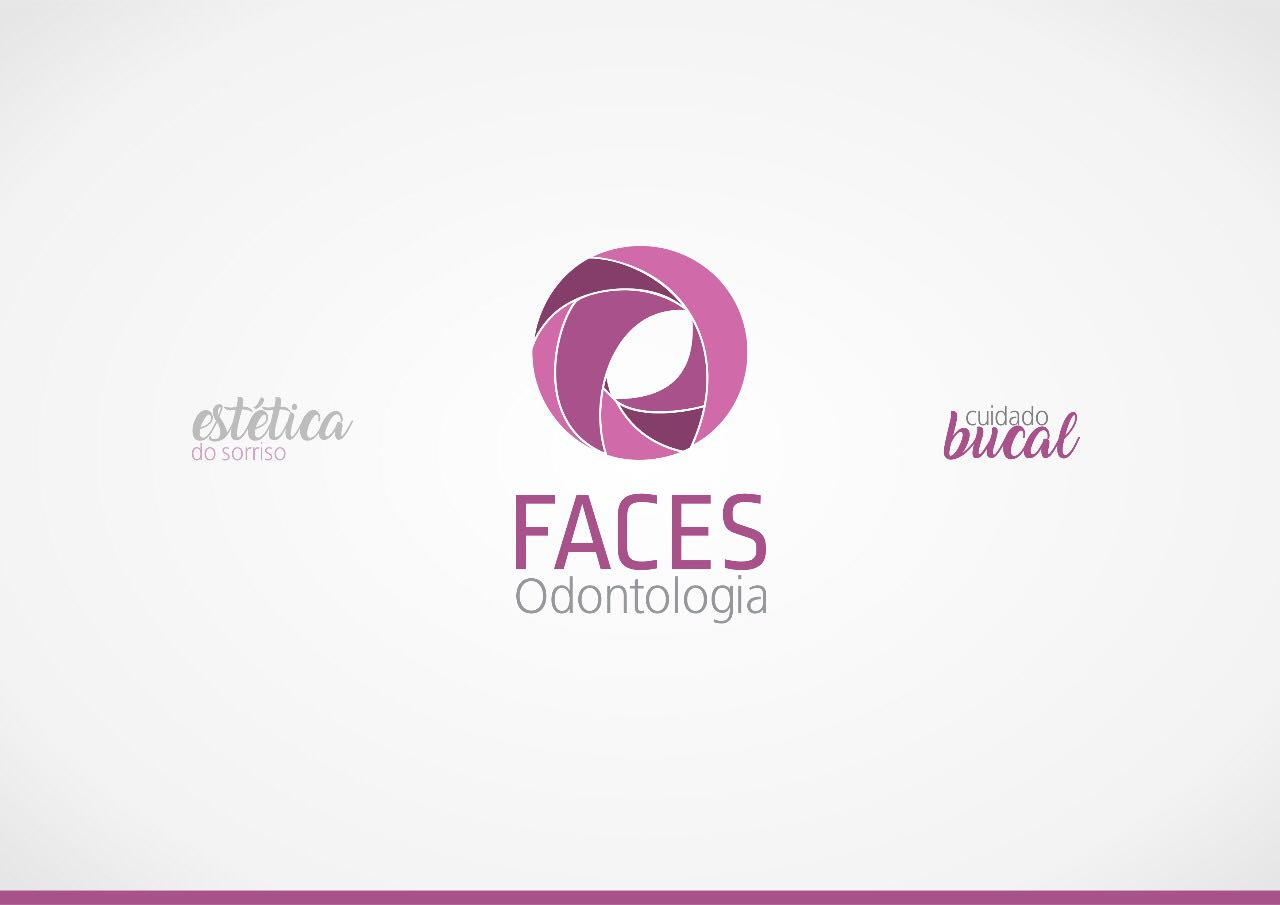
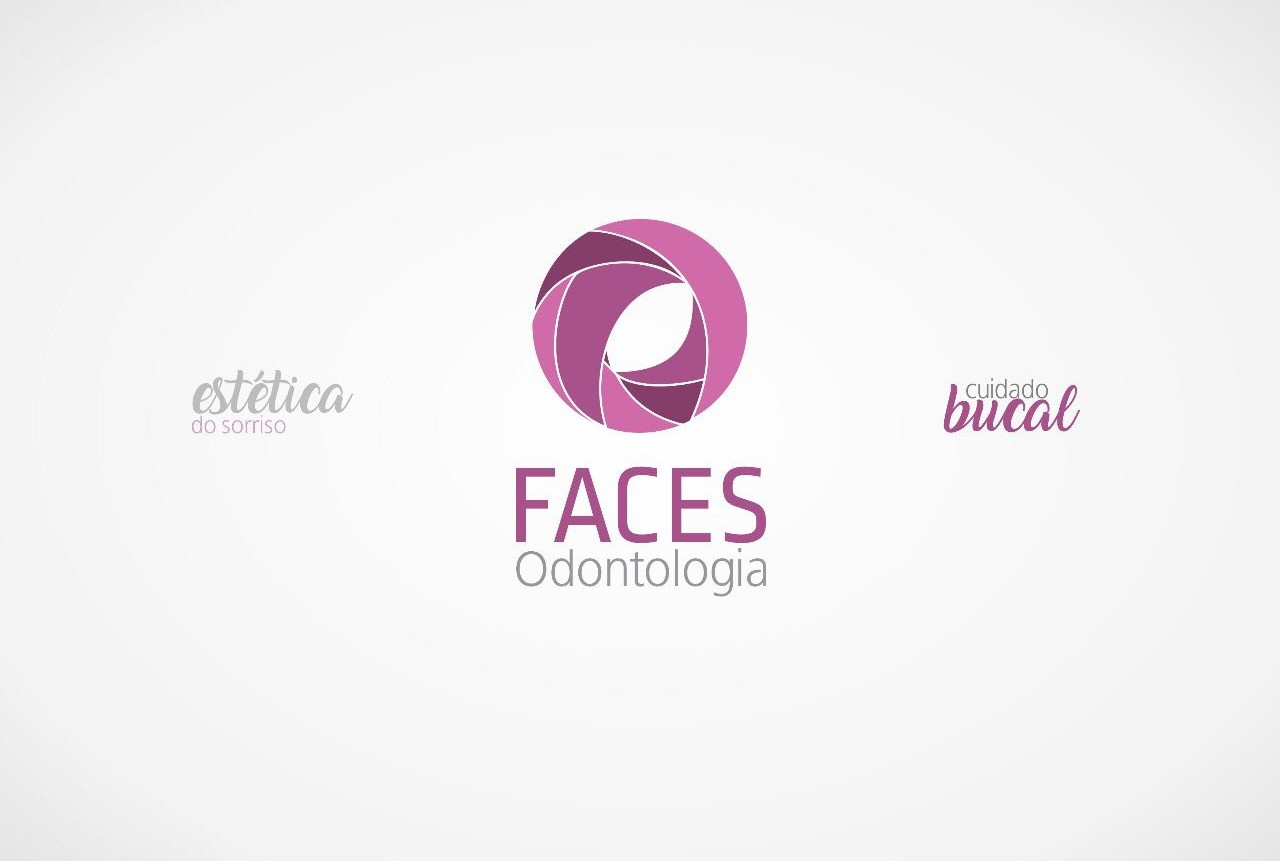
fixing width size for mobile

diff --git a/css/creative.min.css b/css/creative.min.css
@@ -1,1 +1,1 @@
-body,html{width:100%;height:100%}body{font-family:Merriweather,'Helvetica Neue',Arial,sans-serif}hr{max-width:50px;border-width:3px;border-color:#b24a59}hr.light{border-color:#fff}a{color:#b24a59;-webkit-transition:all .2s;-moz-transition:all .2s;transition:all .2s}a:hover{color:#b24a59}h1,h2,h3,h4,h5,h6{font-family:'Open Sans','Helvetica Neue',Arial,sans-serif}.bg-primary{background-color:#b24a59!important}.bg-dark{background-color:#212529!important}.text-faded{color:rgba(0,0,0,.7)}section{padding:8rem 0}.section-heading{margin-top:0}::-moz-selection{color:#fff;background:#212529;text-shadow:none}::selection{color:#fff;background:#212529;text-shadow:none}img::selection{color:#fff;background:0 0}img::-moz-selection{color:#fff;background:0 0}#mainNav{border-bottom:1px solid rgba(33,37,41,.1);background-color:#fff;font-family:'Open Sans','Helvetica Neue',Arial,sans-serif;-webkit-transition:all .2s;-moz-transition:all .2s;transition:all .2s}#mainNav .navbar-brand{font-weight:700;text-transform:uppercase;color:#b24a59;font-family:'Open Sans','Helvetica Neue',Arial,sans-serif}#mainNav .navbar-brand:focus,#mainNav .navbar-brand:hover{color:#b24a59}#mainNav .navbar-nav>li.nav-item>a.nav-link,#mainNav .navbar-nav>li.nav-item>a.nav-link:focus{font-size:.9rem;font-weight:700;text-transform:uppercase;color:#212529}#mainNav .navbar-nav>li.nav-item>a.nav-link:focus:hover,#mainNav .navbar-nav>li.nav-item>a.nav-link:hover{color:#b24a59}#mainNav .navbar-nav>li.nav-item>a.nav-link.active,#mainNav .navbar-nav>li.nav-item>a.nav-link:focus.active{color:#b24a59!important;background-color:transparent}#mainNav .navbar-nav>li.nav-item>a.nav-link.active:hover,#mainNav .navbar-nav>li.nav-item>a.nav-link:focus.active:hover{background-color:transparent}@media (min-width:992px){#mainNav{border-color:transparent;background-color:transparent}#mainNav .navbar-brand{color:rgba(0,0,0,.7)}#mainNav .navbar-brand:focus,#mainNav .navbar-brand:hover{color:#fff}#mainNav .navbar-nav>li.nav-item>a.nav-link{padding:.5rem 1rem}#mainNav .navbar-nav>li.nav-item>a.nav-link,#mainNav .navbar-nav>li.nav-item>a.nav-link:focus{color:rgba(0,0,0,.7)}#mainNav .navbar-nav>li.nav-item>a.nav-link:focus:hover,#mainNav .navbar-nav>li.nav-item>a.nav-link:hover{color:#925367}#mainNav.navbar-shrink{border-bottom:1px solid rgba(33,37,41,.1);background-color:#fff}#mainNav.navbar-shrink .navbar-brand{color:#b24a59}#mainNav.navbar-shrink .navbar-brand:focus,#mainNav.navbar-shrink .navbar-brand:hover{color:#b24a59}#mainNav.navbar-shrink .navbar-nav>li.nav-item>a.nav-link,#mainNav.navbar-shrink .navbar-nav>li.nav-item>a.nav-link:focus{color:#212529}#mainNav.navbar-shrink .navbar-nav>li.nav-item>a.nav-link:focus:hover,#mainNav.navbar-shrink .navbar-nav>li.nav-item>a.nav-link:hover{color:#b24a59}}header.masthead{padding-top:10rem;padding-bottom:calc(10rem - 56px);background-image:url(../img/header.jpg);background-position:center center;-webkit-background-size:cover;-moz-background-size:cover;-o-background-size:cover;background-size:cover}header.masthead hr{margin-top:30px;margin-bottom:30px}header.masthead h1{font-size:2rem}header.masthead p{font-weight:300}@media (min-width:768px){header.masthead p{font-size:1.15rem}}@media (min-width:992px){header.masthead{height:100vh;min-height:650px;padding-top:0;padding-bottom:0}header.masthead h1{font-size:3rem}}@media (min-width:1200px){header.masthead h1{font-size:4rem}}.service-box{max-width:400px}.portfolio-box{position:relative;display:block;max-width:650px;margin:0 auto}.portfolio-box .portfolio-box-caption{position:absolute;bottom:0;display:block;width:100%;height:100%;text-align:center;opacity:0;color:#fff;background:rgba(240,95,64,.9);-webkit-transition:all .2s;-moz-transition:all .2s;transition:all .2s}.portfolio-box .portfolio-box-caption .portfolio-box-caption-content{position:absolute;top:50%;width:100%;transform:translateY(-50%);text-align:center}.portfolio-box .portfolio-box-caption .portfolio-box-caption-content .project-category,.portfolio-box .portfolio-box-caption .portfolio-box-caption-content .project-name{padding:0 15px;font-family:'Open Sans','Helvetica Neue',Arial,sans-serif}.portfolio-box .portfolio-box-caption .portfolio-box-caption-content .project-category{font-size:14px;font-weight:600;text-transform:uppercase}.portfolio-box .portfolio-box-caption .portfolio-box-caption-content .project-name{font-size:18px}.portfolio-box:hover .portfolio-box-caption{opacity:1}.portfolio-box:focus{outline:0}@media (min-width:768px){.portfolio-box .portfolio-box-caption .portfolio-box-caption-content .project-category{font-size:16px}.portfolio-box .portfolio-box-caption .portfolio-box-caption-content .project-name{font-size:22px}}.text-primary{color:#b24a59!important}.btn{font-weight:700;text-transform:uppercase;border:none;border-radius:300px;font-family:'Open Sans','Helvetica Neue',Arial,sans-serif}.btn-xl{padding:1rem 2rem}.btn-primary{background-color:#b24a59;border-color:#b24a59}.btn-primary:active,.btn-primary:focus,.btn-primary:hover{color:#fff;background-color:#ee4b28!important}.btn-primary:active,.btn-primary:focus{box-shadow:0 0 0 .2rem rgba(240,95,64,.5)!important}
+body,html{width:100%;height:100%}body{font-family:Merriweather,'Helvetica Neue',Arial,sans-serif}hr{max-width:50px;border-width:3px;border-color:#b24a59}hr.light{border-color:#fff}a{color:#b24a59;-webkit-transition:all .2s;-moz-transition:all .2s;transition:all .2s}a:hover{color:#b24a59}h1,h2,h3,h4,h5,h6{font-family:'Open Sans','Helvetica Neue',Arial,sans-serif}.bg-primary{background-color:#b24a59!important}.bg-dark{background-color:#212529!important}.text-faded{color:rgba(0,0,0,.7)}section{padding:8rem 0}.section-heading{margin-top:0}::-moz-selection{color:#fff;background:#212529;text-shadow:none}::selection{color:#fff;background:#212529;text-shadow:none}img::selection{color:#fff;background:0 0}img::-moz-selection{color:#fff;background:0 0}#mainNav{border-bottom:1px solid rgba(33,37,41,.1);background-color:#fff;font-family:'Open Sans','Helvetica Neue',Arial,sans-serif;-webkit-transition:all .2s;-moz-transition:all .2s;transition:all .2s}#mainNav .navbar-brand{font-weight:700;text-transform:uppercase;color:#b24a59;font-family:'Open Sans','Helvetica Neue',Arial,sans-serif}#mainNav .navbar-brand:focus,#mainNav .navbar-brand:hover{color:#b24a59}#mainNav .navbar-nav>li.nav-item>a.nav-link,#mainNav .navbar-nav>li.nav-item>a.nav-link:focus{font-size:.9rem;font-weight:700;text-transform:uppercase;color:#212529}#mainNav .navbar-nav>li.nav-item>a.nav-link:focus:hover,#mainNav .navbar-nav>li.nav-item>a.nav-link:hover{color:#b24a59}#mainNav .navbar-nav>li.nav-item>a.nav-link.active,#mainNav .navbar-nav>li.nav-item>a.nav-link:focus.active{color:#b24a59!important;background-color:transparent}#mainNav .navbar-nav>li.nav-item>a.nav-link.active:hover,#mainNav .navbar-nav>li.nav-item>a.nav-link:focus.active:hover{background-color:transparent}@media (min-width:992px){#mainNav{border-color:transparent;background-color:transparent}#mainNav .navbar-brand{color:rgba(0,0,0,.7)}#mainNav .navbar-brand:focus,#mainNav .navbar-brand:hover{color:#fff}#mainNav .navbar-nav>li.nav-item>a.nav-link{padding:.5rem 1rem}#mainNav .navbar-nav>li.nav-item>a.nav-link,#mainNav .navbar-nav>li.nav-item>a.nav-link:focus{color:rgba(0,0,0,.7)}#mainNav .navbar-nav>li.nav-item>a.nav-link:focus:hover,#mainNav .navbar-nav>li.nav-item>a.nav-link:hover{color:#925367}#mainNav.navbar-shrink{border-bottom:1px solid rgba(33,37,41,.1);background-color:#fff}#mainNav.navbar-shrink .navbar-brand{color:#b24a59}#mainNav.navbar-shrink .navbar-brand:focus,#mainNav.navbar-shrink .navbar-brand:hover{color:#b24a59}#mainNav.navbar-shrink .navbar-nav>li.nav-item>a.nav-link,#mainNav.navbar-shrink .navbar-nav>li.nav-item>a.nav-link:focus{color:#212529}#mainNav.navbar-shrink .navbar-nav>li.nav-item>a.nav-link:focus:hover,#mainNav.navbar-shrink .navbar-nav>li.nav-item>a.nav-link:hover{color:#b24a59}}header.masthead{padding-top:10rem;padding-bottom:calc(10rem - 56px);background-position:center center;-webkit-background-size:cover;-moz-background-size:cover;-o-background-size:cover;background-size:cover}header.masthead hr{margin-top:30px;margin-bottom:30px}header.masthead h1{font-size:2rem}header.masthead p{font-weight:300}@media (min-width:768px){header.masthead p{font-size:1.15rem}}@media (min-width:992px){header.masthead{height:100vh;min-height:650px;padding-top:0;padding-bottom:0}header.masthead h1{font-size:3rem}}@media (min-width:1200px){header.masthead h1{font-size:4rem}}.service-box{max-width:400px}.portfolio-box{position:relative;display:block;max-width:650px;margin:0 auto}.portfolio-box .portfolio-box-caption{position:absolute;bottom:0;display:block;width:100%;height:100%;text-align:center;opacity:0;color:#fff;background:rgba(240,95,64,.9);-webkit-transition:all .2s;-moz-transition:all .2s;transition:all .2s}.portfolio-box .portfolio-box-caption .portfolio-box-caption-content{position:absolute;top:50%;width:100%;transform:translateY(-50%);text-align:center}.portfolio-box .portfolio-box-caption .portfolio-box-caption-content .project-category,.portfolio-box .portfolio-box-caption .portfolio-box-caption-content .project-name{padding:0 15px;font-family:'Open Sans','Helvetica Neue',Arial,sans-serif}.portfolio-box .portfolio-box-caption .portfolio-box-caption-content .project-category{font-size:14px;font-weight:600;text-transform:uppercase}.portfolio-box .portfolio-box-caption .portfolio-box-caption-content .project-name{font-size:18px}.portfolio-box:hover .portfolio-box-caption{opacity:1}.portfolio-box:focus{outline:0}@media (min-width:768px){.portfolio-box .portfolio-box-caption .portfolio-box-caption-content .project-category{font-size:16px}.portfolio-box .portfolio-box-caption .portfolio-box-caption-content .project-name{font-size:22px}}.text-primary{color:#b24a59!important}.btn{font-weight:700;text-transform:uppercase;border:none;border-radius:300px;font-family:'Open Sans','Helvetica Neue',Arial,sans-serif}.btn-xl{padding:1rem 2rem}.btn-primary{background-color:#b24a59;border-color:#b24a59}.btn-primary:active,.btn-primary:focus,.btn-primary:hover{color:#fff;background-color:#ee4b28!important}.btn-primary:active,.btn-primary:focus{box-shadow:0 0 0 .2rem rgba(240,95,64,.5)!important}

diff --git a/index.html b/index.html
@@ -60,28 +60,13 @@
     </nav>
 
     <header class="masthead text-center text-white d-flex">
-      <div class="container my-auto">
-        <div class="row">
-          <!--<div class="col-lg-10 mx-auto">
-            <h1 class="text-uppercase">
-              <strong>Faces Odontologia</strong>
-            </h1>
-            <hr>
-          </div>-->
-	  <div class="col-lg-10 mx-auto">
-            <h1 class="text-uppercase">
-              <br/>
-              <br/>
-              <br/>
-              <br/>
-              <br/>
-              <br/>
-            </h1>
-	  </div>
-          <div class="col-lg-8 mx-auto">
-            <a class="btn btn-primary btn-xl js-scroll-trigger" href="#about">Saiba mais</a>
-          </div>
-        </div>
+      <div class="container my-auto">        
+	<div class="row">
+		<div class="col-lg-12 col-sm-12" style="position:relative;display:inline-block">
+			<img class="img-fluid" src="img/header.jpg" alt="">
+			<a class="btn btn-primary btn-xl js-scroll-trigger" style="position:absolute;bottom:20px;right:50vh" href="#about">Saiba mais</a>
+		</div>
+	</div>
       </div>
     </header>
 
@@ -111,35 +96,30 @@
         <div class="row">	
           <div class="col-lg-3 col-md-6 text-center">
             <div class="service-box mt-5 mx-auto">
-              <!--<i class="fa fa-4x fa-heart text-primary mb-3 sr-icons"></i>-->
               <h3 class="mb-3">Cirurgia</h3>
               <p class="text-muted mb-0">Cirurgia oral menor: exodontia, dentes inclusos e frenectomia.</p>
             </div>
           </div>
           <div class="col-lg-3 col-md-6 text-center">
             <div class="service-box mt-5 mx-auto">
-              <!--<i class="fa fa-4x fa-heart text-primary mb-3 sr-icons"></i>-->
               <h3 class="mb-3">Clínica Geral</h3>
               <p class="text-muted mb-0">Raspagem de tártaros, profilaxia, aplicação de flúor e selantes.</p>
             </div>
           </div>
           <div class="col-lg-3 col-md-6 text-center">
             <div class="service-box mt-5 mx-auto">
-              <!--<i class="fa fa-4x fa-diamond text-primary mb-3 sr-icons"></i>-->
               <h3 class="mb-3">Endodontia</h3>
               <p class="text-muted mb-0">Tratamento de canal automatizado.</p>
             </div>
           </div>
 	<div class="col-lg-3 col-md-6 text-center">
             <div class="service-box mt-5 mx-auto">
-              <!--<i class="fa fa-4x fa-newspaper-o text-primary mb-3 sr-icons"></i>-->
               <h3 class="mb-3">Estética</h3>
               <p class="text-muted mb-0">Restaurações estéticas e clareamento dental.</p>
             </div>
           </div>
           <div class="col-lg-3 col-md-6 text-center">
             <div class="service-box mt-5 mx-auto">
-              <!--<i class="fa fa-4x fa-paper-plane text-primary mb-3 sr-icons"></i>-->
               <h3 class="mb-3">Ortodontia</h3>
               <p class="text-muted mb-0">Aparelhos fixos e removíveis.</p>
             </div>
@@ -147,7 +127,6 @@
           
           <div class="col-lg-3 col-md-6 text-center">
             <div class="service-box mt-5 mx-auto">
-              <!--<i class="fa fa-4x fa-heart text-primary mb-3 sr-icons"></i>-->
               <h3 class="mb-3">Prótese</h3>
               <p class="text-muted mb-0">Prótese total, parcial e fixa. Laminados cerâmicos (lentes de contato).</p>
             </div>
@@ -165,89 +144,13 @@
           </div>
         </div>
       </div>
-    <center> 
-      <div class="container-fluid p-0">	 
-            <a class="portfolio-box" href="img/portfolio/fullsize/1.jpg">            
-	    <img class="img-fluid" src="img/portfolio/thumbnails/1.jpg" alt="">              	
-            </a>
-	<!--
-          <div class="col-lg-4 col-sm-6">
-            <a class="portfolio-box" href="img/portfolio/fullsize/2.jpg">
-              <img class="img-fluid" src="img/portfolio/thumbnails/2.jpg" alt="">
-              <div class="portfolio-box-caption">
-                <div class="portfolio-box-caption-content">
-                  <div class="project-category text-faded">
-                    Category
-                  </div>
-                  <div class="project-name">
-                    Project Name
-                  </div>
-                </div>
-              </div>
-            </a>
-          </div>
-          <div class="col-lg-4 col-sm-6">
-            <a class="portfolio-box" href="img/portfolio/fullsize/3.jpg">
-              <img class="img-fluid" src="img/portfolio/thumbnails/3.jpg" alt="">
-              <div class="portfolio-box-caption">
-                <div class="portfolio-box-caption-content">
-                  <div class="project-category text-faded">
-                    Category
-                  </div>
-                  <div class="project-name">
-                    Project Name
-                  </div>
-                </div>
-              </div>
-            </a>
-          </div>
-          <div class="col-lg-4 col-sm-6">
-            <a class="portfolio-box" href="img/portfolio/fullsize/4.jpg">
-              <img class="img-fluid" src="img/portfolio/thumbnails/4.jpg" alt="">
-              <div class="portfolio-box-caption">
-                <div class="portfolio-box-caption-content">
-                  <div class="project-category text-faded">
-                    Category
-                  </div>
-                  <div class="project-name">
-                    Project Name
-                  </div>
-                </div>
-              </div>
-            </a>
-          </div>
-          <div class="col-lg-4 col-sm-6">
-            <a class="portfolio-box" href="img/portfolio/fullsize/5.jpg">
-              <img class="img-fluid" src="img/portfolio/thumbnails/5.jpg" alt="">
-              <div class="portfolio-box-caption">
-                <div class="portfolio-box-caption-content">
-                  <div class="project-category text-faded">
-                    Category
-                  </div>
-                  <div class="project-name">
-                    Project Name
-                  </div>
-                </div>
-              </div>
-            </a>
-          </div>
-          <div class="col-lg-4 col-sm-6">
-            <a class="portfolio-box" href="img/portfolio/fullsize/6.jpg">
-              <img class="img-fluid" src="img/portfolio/thumbnails/6.jpg" alt="">
-              <div class="portfolio-box-caption">
-                <div class="portfolio-box-caption-content">
-                  <div class="project-category text-faded">
-                    Category
-                  </div>
-                  <div class="project-name">
-                    Project Name
-                  </div>
-                </div>
-              </div>
-            </a>
-          </div>-->
-      </div>
-    </center>
+	<center> 
+		<div class="container-fluid p-0">
+			<a class="portfolio-box" href="img/portfolio/fullsize/1.jpg">            
+			<img class="img-fluid" src="img/portfolio/thumbnails/1.jpg" alt="">              	
+			</a>	
+		</div>
+	</center>
     </section>
 
     <section id="contact">
@@ -288,34 +191,35 @@
     </section>
 
    <section id="location">
-      <div class="row">
-          <div class="col-lg-12 text-center">
-            <h2 class="section-heading">Estamos no Eco Medical</h2>
-            <hr class="my-4">
-          </div>	
-      </div>
-	<center>
-		<div class="map-responsive">
-			<<iframe src="https://www.google.com/maps/embed?pb=!1m18!1m12!1m3!1d3959.0693384168253!2d-34.83912815016296!3d-7.117963494834702!2m3!1f0!2f0!3f0!3m2!1i1024!2i768!4f13.1!3m3!1m2!1s0x7acdd24dbea28db%3A0x3ffcacb4ef52bb0!2sFaces+Odontologia!5e0!3m2!1spt-BR!2sbr!4v1526418355039" width="600" height="450" frameborder="0" style="border:0" allowfullscreen></iframe>
+	<div class="row">
+          	<div class="col-lg-12 text-center">
+		    <h2 class="section-heading">Estamos no Eco Medical</h2>
+		    <hr class="my-4">
+		</div>	
+	</div>
+	<div class="row">
+		<div class="google-maps col-lg-12 col-sm-12 text-center">
+			<iframe src="https://www.google.com/maps/embed?pb=!1m18!1m12!1m3!1d3959.0693384168253!2d-34.83912815016296!3d-7.117963494834702!2m3!1f0!2f0!3f0!3m2!1i1024!2i768!4f13.1!3m3!1m2!1s0x7acdd24dbea28db%3A0x3ffcacb4ef52bb0!2sFaces+Odontologia!5e0!3m2!1spt-BR!2sbr!4v1526418355039" frameborder="0"></iframe>
 		</div>
-	</center>
-	
+      	</div>	
    </section>
 
-    <!--<script>
-	function myMap() {
-	var mapOptions = {
-	    center: new google.maps.LatLng(-7.1181729,-34.837082),
-	    zoom: 16,
-	    mapTypeId: google.maps.MapTypeId.roadmap
-	}
-	var map = new google.maps.Map(document.getElementById("map"), mapOptions);
-	}
-    </script>
 
-    <script src="https://maps.googleapis.com/maps/api/js?key=AIzaSyCCn6Ei5ToFzViJLlQh_Fn28mheyc94Us8&callback=myMap"></script>-->
-
-    
+    <style>
+    .google-maps {
+        position: relative;
+        padding-bottom: 75%; // This is the aspect ratio
+        height: 0;
+        overflow: hidden;
+    }
+    .google-maps iframe {
+        position: absolute;
+        top: 0;
+        left: 0;
+        width: 100% !important;
+        height: 100% !important;
+    }
+</style>
 
     <!-- Bootstrap core JavaScript -->
     <script src="vendor/jquery/jquery.min.js"></script>

diff --git a/css/creative.css b/css/creative.css
@@ -324,3 +324,5 @@ header.masthead p {
     width:100%;
     position:absolute;
 }
+
+
